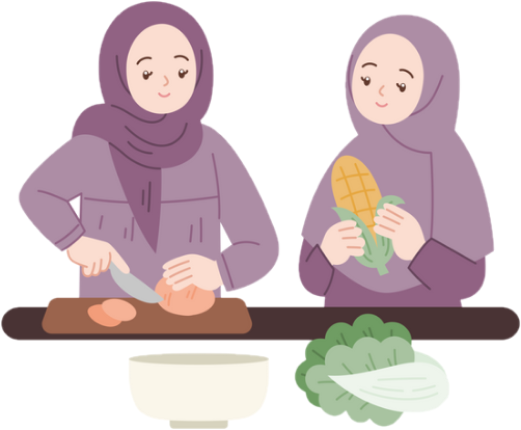
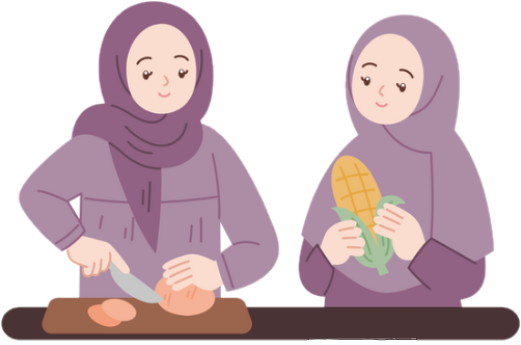
Added image files

diff --git a/root/public/index.php b/root/public/index.php
@@ -70,7 +70,7 @@ session_start();
                 <h2>Explore & Share</h2>
                 <p>Browse recipes by category, region, or popularity. Share your creations with the community.</p>
                 </br>
-                <img src="<?php echo IMG_URL; ?>share_graphic.png" alt="2 girls cooking" width="200" height="200">
+                <img src="<?php echo IMG_URL; ?>share_graphic.png" alt="2 girls cooking" width="250" height="200">
             </div>
         </div>
     </section>
